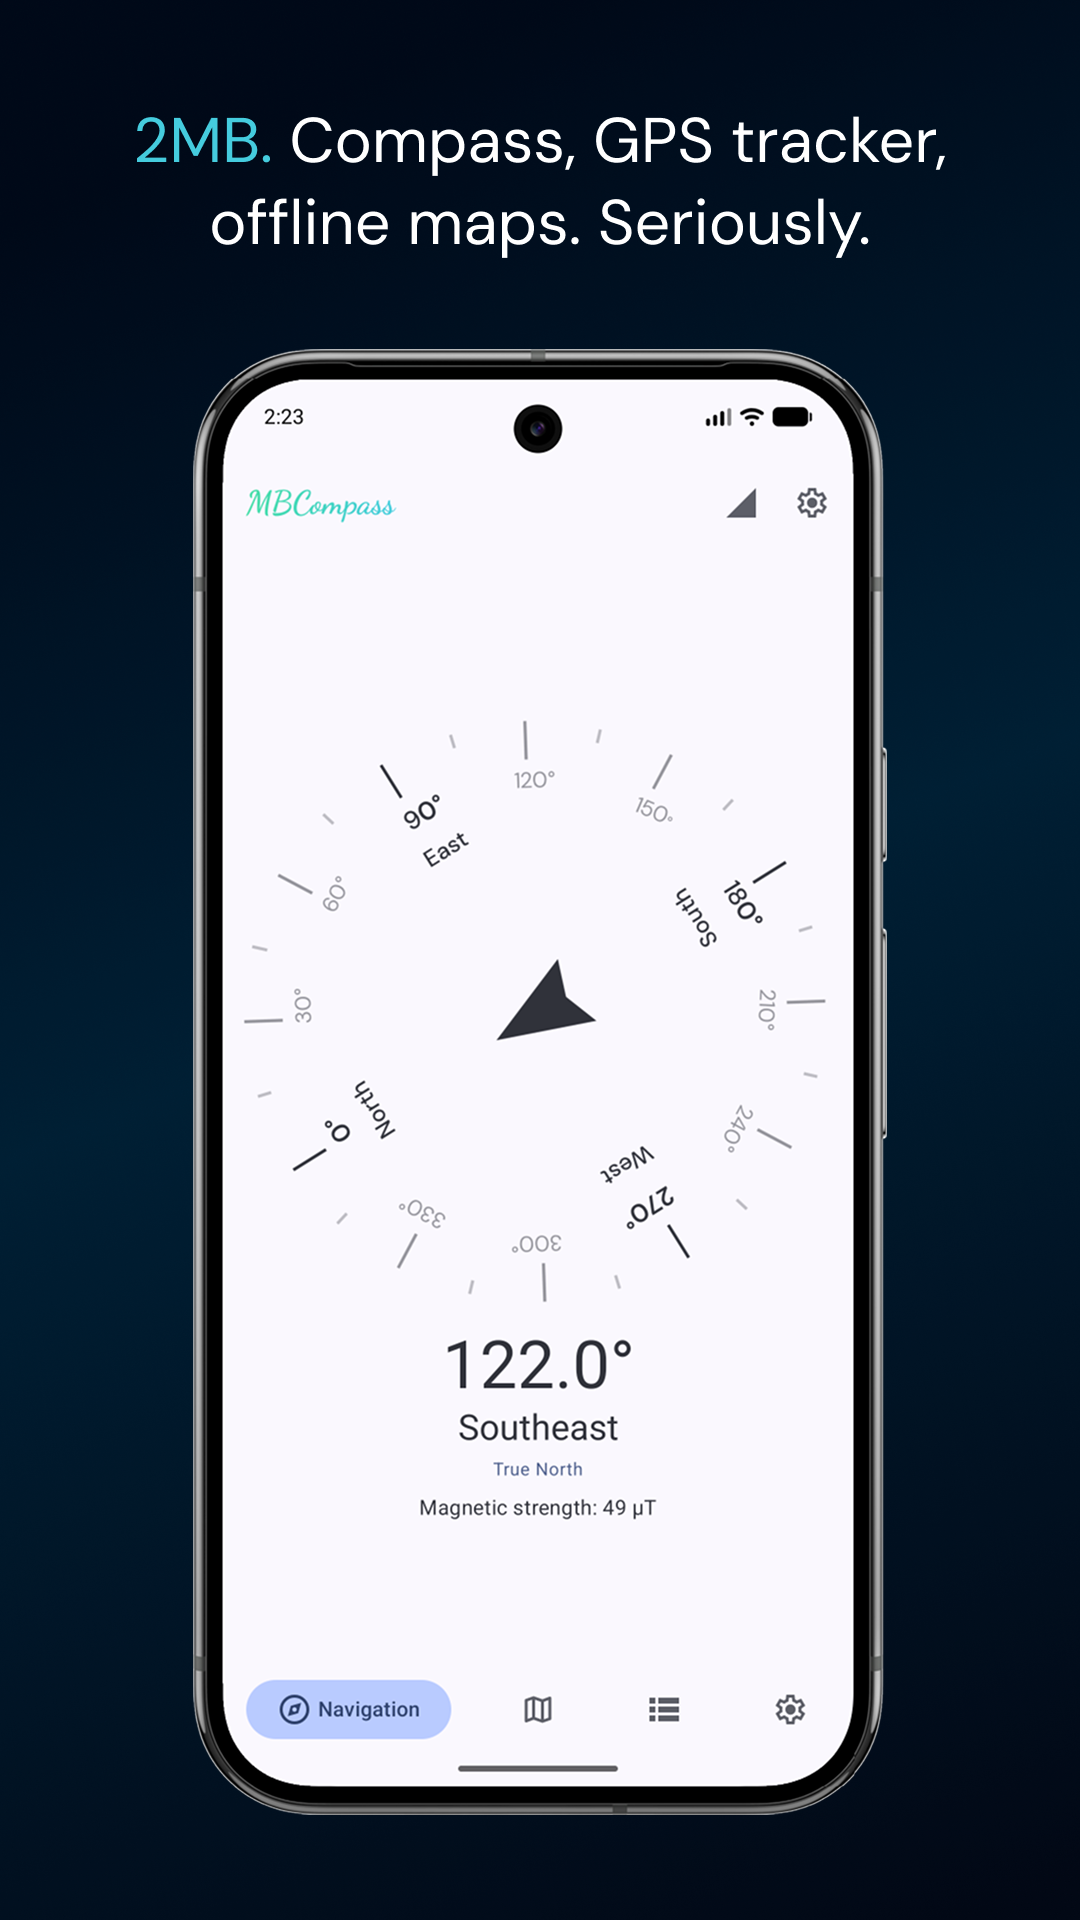
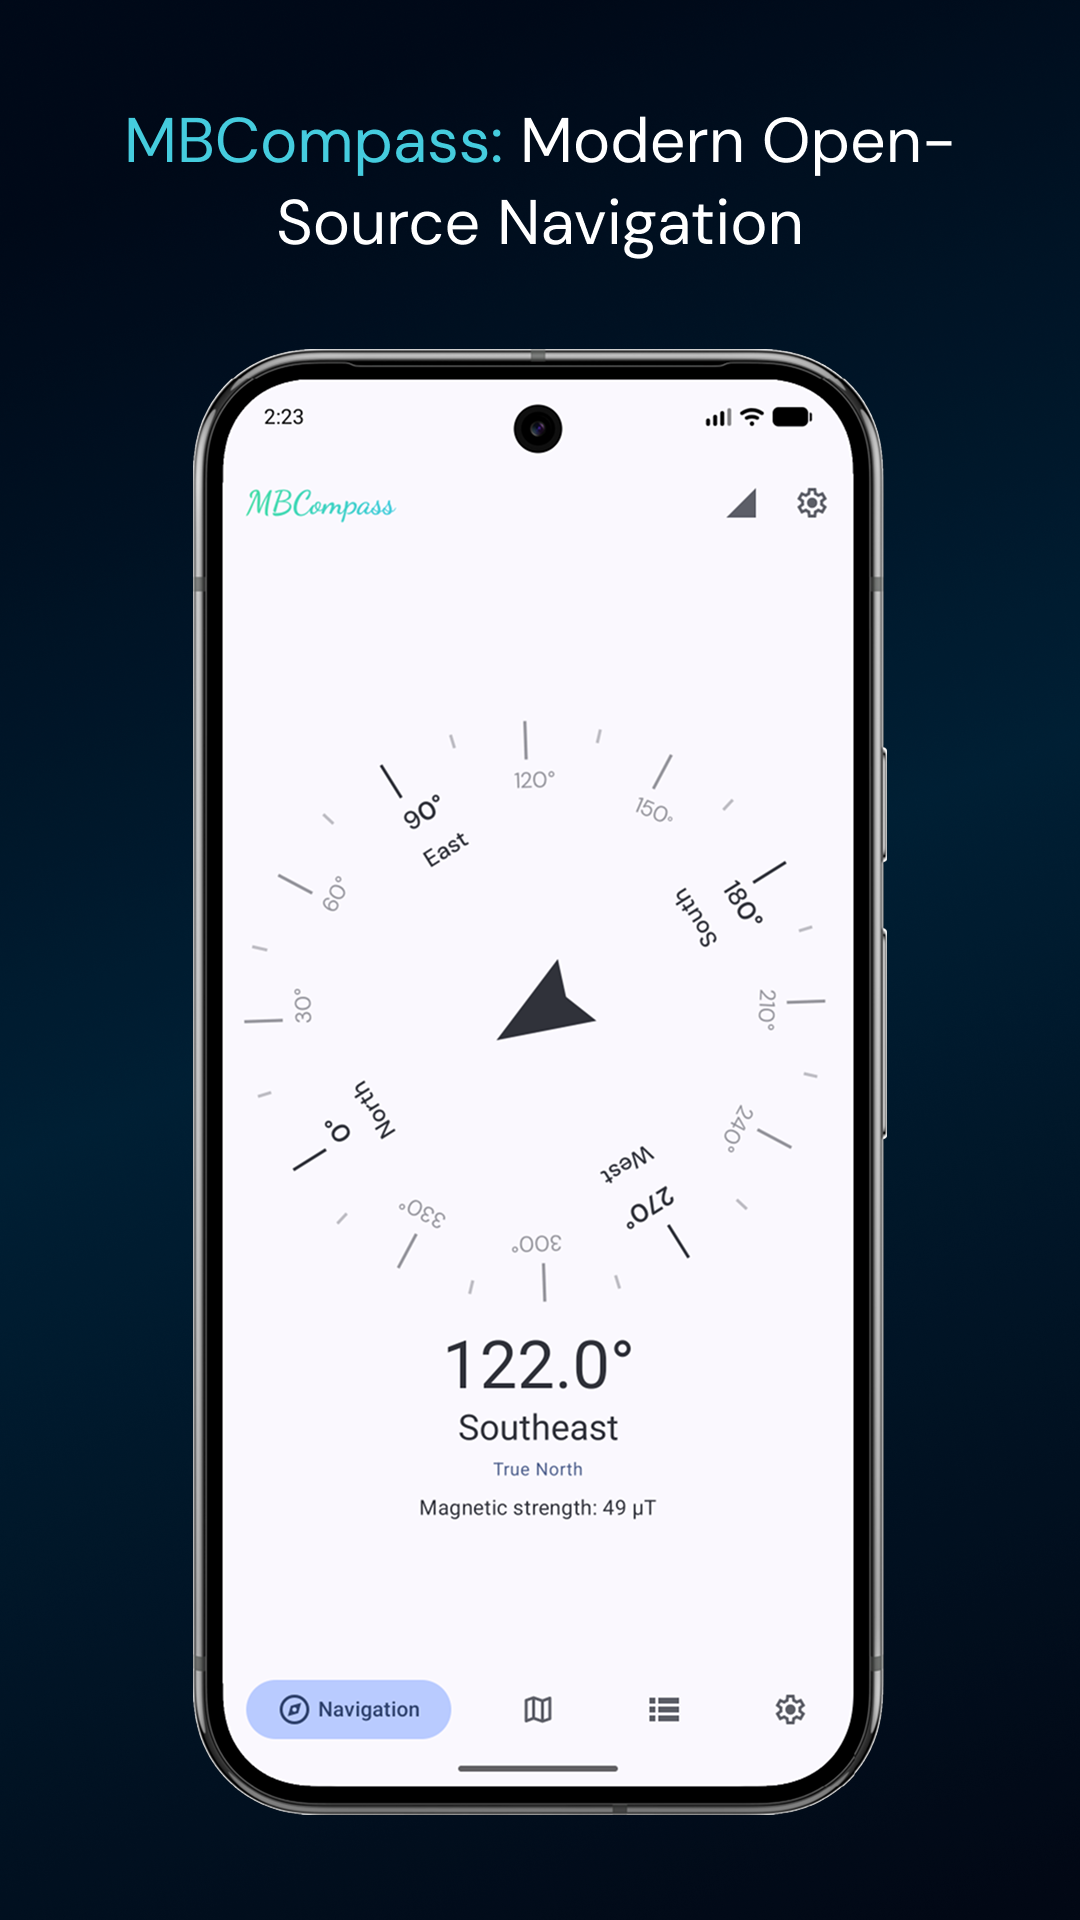
docs: add new version changelog (#181)

Pull request: docs: add new version changelog

Changed region(s): [[0.1222, 0.0625, 0.8861, 0.1562]]

diff --git a/README.md b/README.md
@@ -54,65 +54,41 @@
 
 <p align="center">
   <img width="40%" src="fastlane/metadata/android/en-US/images/phoneScreenshots/3.png" />
-  <img width="40%" src="fastlane/metadata/android/en-US/images/phoneScreenshots/4.png" />
-</p>
-
-<p align="center">
-  <img width="40%" src="fastlane/metadata/android/en-US/images/phoneScreenshots/5.png" />
   <img width="40%" src="fastlane/metadata/android/en-US/images/phoneScreenshots/6.png" />
 </p>
 
 <p align="center">
-  <img width="40%" src="fastlane/metadata/android/en-US/images/phoneScreenshots/7.png" />
+  <img width="40%" src="fastlane/metadata/android/en-US/images/phoneScreenshots/5.png" />
   <img width="40%" src="fastlane/metadata/android/en-US/images/phoneScreenshots/8.png" />
 </p>
 
-
 ## Features
 
-### Compass & Navigation
-- Accurate compass with **magnetic north** and **true north**
-- Sensor fusion for improved accuracy (accelerometer, magnetometer, gyroscope)
-- Real-time magnetic field strength display (**µT**)
-- Live GPS location tracking on OpenStreetMap
-- Keeps screen on during navigation
+### Navigation
 
-### Track Recording & Maps
-- Real-time track recording with start, pause, and resume
-- Smooth polyline rendering for clear path visualization
-- Track statistics: distance, duration, average speed, elevation gain/loss (if available), min/max altitude
-- Export tracks as **GPX files** via the system file picker
-- View, star, and sort all saved tracks in one place
-- Offline Mapsforge vector maps loaded from your device
+- Compass with true and magnetic north
+- Live GPS location
+- Sensor fusion
+- Magnetic field indicator
+
+### Maps & Tracks
+
+- Live track recording with start, pause, and resume
+- Real-time path visualization
+- GPX export
+- Offline Mapsforge maps (toggled in settings)
 - Optional online OpenStreetMap tiles
-- Switch between offline and online maps in Settings
+- Track statistics (distance, duration, speed, elevation, altitude)
 
 ### App
-- Light, Dark, and **AMOLED** themes
-- Extremely lightweight (**~2 MB**) and battery efficient
-- Landscape orientation support
-- Clean Jetpack Compose UI with Material Design
-- No ads, no tracking, no in-app purchases
-- No Google Play Services dependency (Works on Custom ROM's too)
-- Supports Android 6.0+
 
----
+- Material Design 3
+- Light, Dark, and AMOLED themes
+- Landscape support
+- No ads, tracking, or in-app purchases
+- Lightweight (~2 MB)
+- Android 6 and above
 
-> [!NOTE]
-> **v1.1.16 is currently in closed beta on Google Play.**
-> This version includes offline Mapsforge map support, per-app language
-> settings, full Compose map migration, and a GPS waypoint density fix.
->
-> Once testing is complete, the same build will be released on both
-> Google Play and F-Droid simultaneously.
->
-> **Join MBCompass Google Group**: https://groups.google.com/g/mbcompass-beta
->
-> **Opt-in for tester:** https://play.google.com/apps/testing/com.mubarak.mbcompass
->
-> **Install:** https://play.google.com/store/apps/details?id=com.mubarak.mbcompass
-
----
 
 ## Roadmap
 
@@ -140,18 +116,10 @@ MBCompass has gained recognition from the global developer community:
 
 ## Permissions
 
-MBCompass only requests the minimum permissions required for navigation and tracking features:
+- **Location** : Navigation and track recording
+- **Notifications (Android 13+)** : Foreground tracking service
 
-- **Location**
-  - Used to detect and display your current location on the map
-  - Required for real-time track recording and navigation features
-
-- **Notification (Android 13+)**
-  - Used to show foreground service notifications during active tracking
-  - Enables track progress visibility and quick controls (pause/resume)
-
-MBCompass does **not** collect, store, or share any personal data.
-All location and tracking data stays on your device unless you explicitly export it (e.g., GPX files).
+MBCompass never collects or shares your data.
 
 ## Translations
 

diff --git a/Featured.md b/Featured.md
@@ -1,7 +1,5 @@
 ##  Featured
 
-Trusted by developers worldwide, **MBCompass** has received significant recognition across the Android and open-source communities:
-
 <p align="center">
   <a href="https://www.producthunt.com/products/mbcompass/launches/mbcompass">
   <img src="https://github.com/CompassMB/MBCompass-site/blob/main/assets/img/ph_400_140.png?raw=true" alt="Product Hunt" style="margin-right: 10px;" />